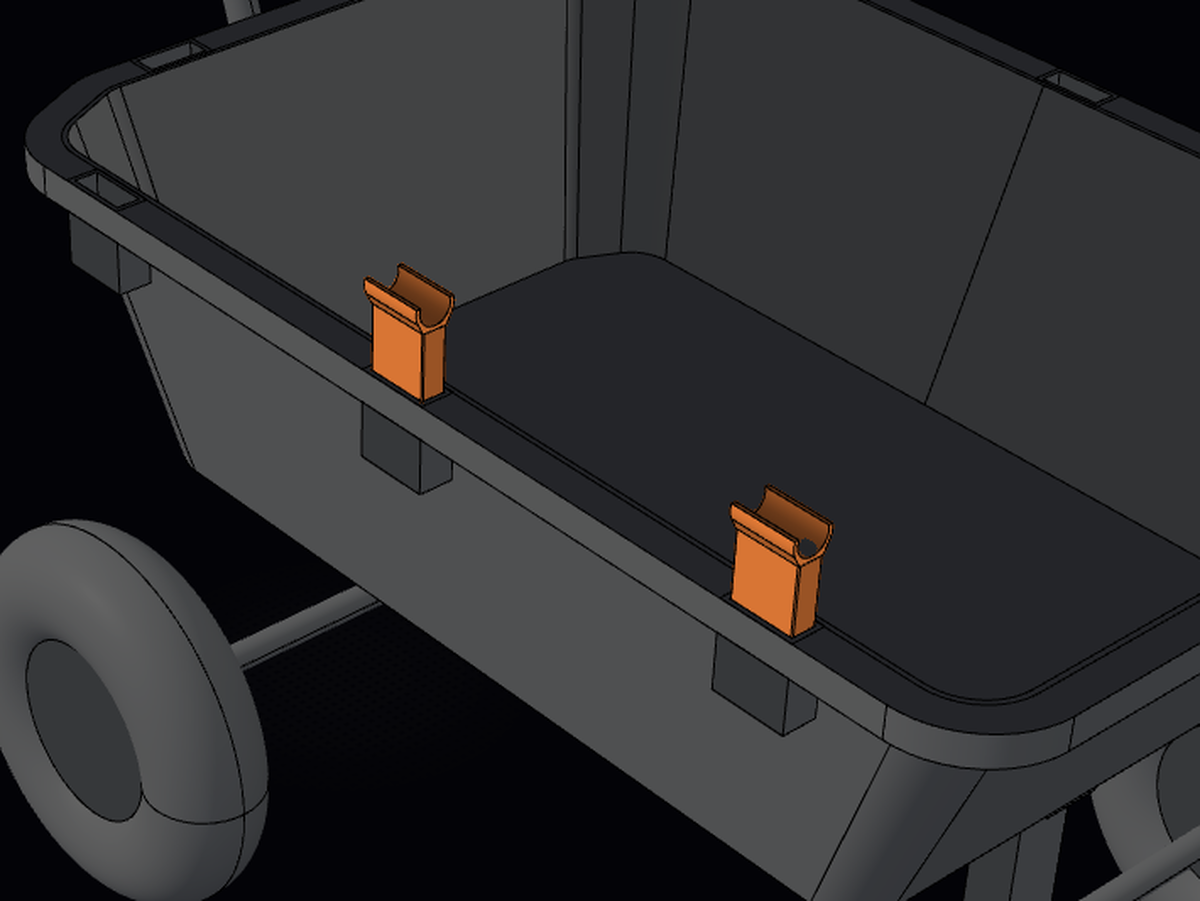
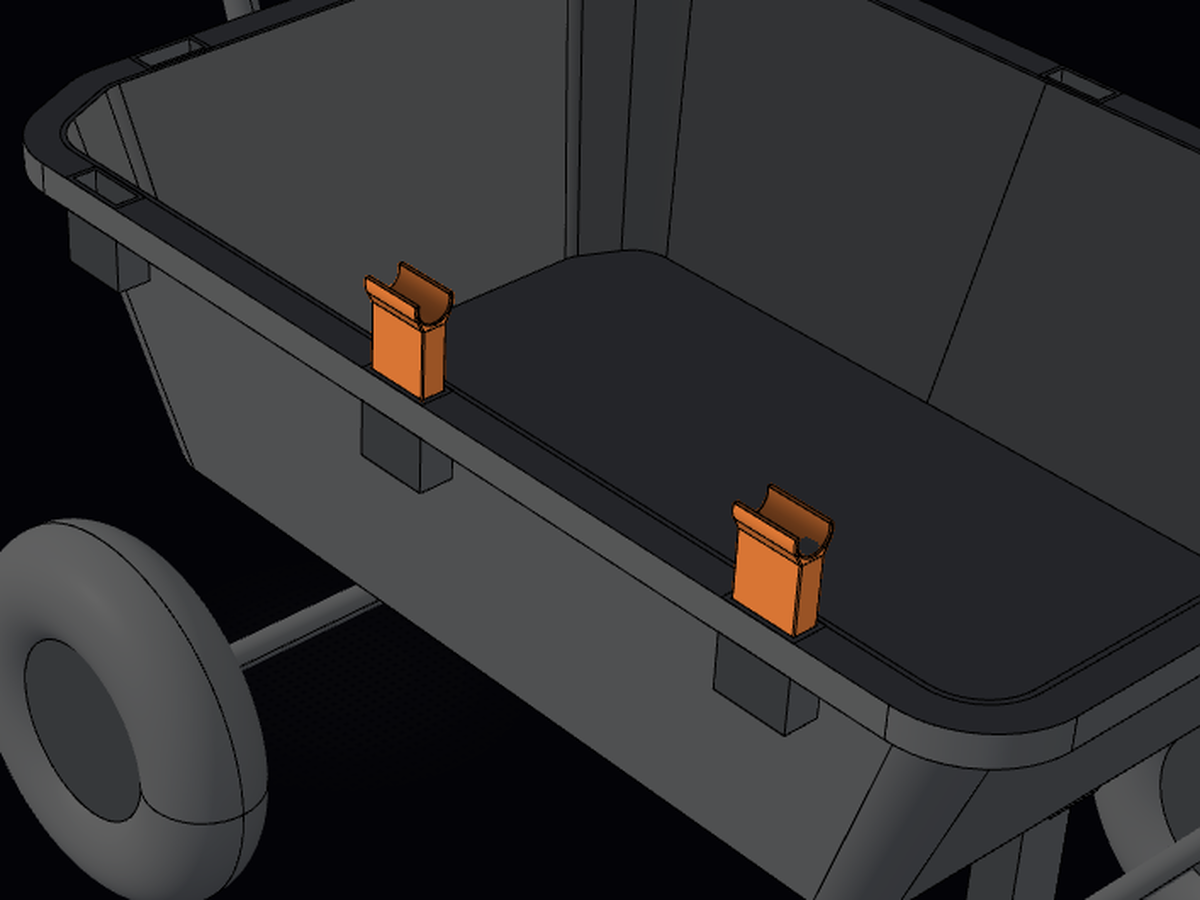
Add chamfer to pole holder edges

diff --git a/src/pole-holder.brep.ts b/src/pole-holder.brep.ts
@@ -11,7 +11,18 @@
  * Units and axes as in ./key.ts: Z up from the cutout floor at z = 0, centred
  * in X/Y, X across the rim, Y along it. The rim is at z = insertDepth.
  */
-import { cut, cylinder, draw, fuse, unwrap, type ValidSolid } from 'brepjs';
+import {
+  chamfer,
+  curvePointAt,
+  cut,
+  cylinder,
+  draw,
+  edgeFinder,
+  fuse,
+  unwrap,
+  type Edge,
+  type ValidSolid,
+} from 'brepjs';
 
 import { cart, plug } from './cart.js';
 import { key, keySectionArea } from './key.js';
@@ -39,6 +50,13 @@ export const params = {
    * leaves the opening narrower than the bore, which is what retains the pole.
    */
   lipHeight: 4,
+
+  /**
+   * Breaks every edge of the clip's two end faces, outer profile and bore mouth
+   * alike, so the pole and hands meet no sharp edge. The base of the clip, where
+   * it meets the bar, is left square.
+   */
+  edgeChamfer: 1,
 } as const;
 
 // ---------------------------------------------------------------------------
@@ -104,14 +122,33 @@ export default function poleHolder(): ValidSolid {
 
   // The XZ plane's normal is -Y, so start the sketch at +Y and extrude back
   // across the full length.
-  const clip = single(profile.sketchOnPlane('XZ', [0, plug.y / 2, 0]).extrude(plug.y));
+  let clip = single(profile.sketchOnPlane('XZ', [0, plug.y / 2, 0]).extrude(plug.y));
 
   const bore = cylinder(boreR, plug.y + 2 * OVER, {
     at: [0, -plug.y / 2 - OVER, height + centreZ],
     axis: [0, 1, 0],
   });
 
-  return single(unwrap(cut(single(unwrap(fuse(bar, clip))), bore)));
+  // The end-face chamfer goes on in two steps, because OCCT fails to chamfer
+  // the outer profile once the clip is joined to the bar. First the outer
+  // profile on the clip alone: every edge of both end faces except the base,
+  // which is joined to the bar.
+  const onEnd = (edge: Edge) => Math.abs(Math.abs(curvePointAt(edge, 0.5)[1]) - plug.y / 2) < 1e-6;
+  const c = params.edgeChamfer;
+  if (c > 0) {
+    const onProfile = (edge: Edge) => onEnd(edge) && curvePointAt(edge, 0.5)[2] > height + 1e-6;
+    clip = single(unwrap(chamfer(clip, edgeFinder().when(onProfile), c)));
+  }
+
+  const part = single(unwrap(cut(single(unwrap(fuse(bar, clip))), bore)));
+  if (c <= 0) return part;
+
+  // Then the bore mouths, once the bore is cut.
+  const onBoreMouth = (edge: Edge) => {
+    const [x, , z] = curvePointAt(edge, 0.5);
+    return onEnd(edge) && Math.abs(Math.hypot(x, z - height - centreZ) - boreR) < 1e-6;
+  };
+  return single(unwrap(chamfer(part, edgeFinder().when(onBoreMouth), c)));
 }
 
 // ---------------------------------------------------------------------------
@@ -130,8 +167,23 @@ const clipArea =
   2 * (outerR * halfBase - outerR ** 2 * beta) -
   belowChord(boreR, params.lipHeight);
 
+// The end-face chamfer takes a c²/2 triangle along each edge of both end
+// profiles: straight along the side lines and lips, and swept round the arcs
+// (Pappus), its centroid c/3 in from the outer circle and c/3 out from the
+// bore. The mitres where the arcs meet the lips are left to the tolerance.
+const c = params.edgeChamfer;
+const sideLine = Math.hypot(tangent[0] - halfBase, tangent[1]);
+const outerArc = Math.atan2(params.lipHeight, outerAtCut) - (toCorner + beta);
+const boreArc = Math.PI + 2 * Math.asin(params.lipHeight / boreR);
+const chamferPerEnd =
+  (c ** 2 / 2) *
+  (2 * sideLine +
+    2 * lipWidth +
+    2 * outerArc * (outerR - c / 3) +
+    boreArc * (boreR + c / 3));
+
 export const expected = {
-  volume: keySectionArea * height + clipArea * plug.y,
+  volume: keySectionArea * height + clipArea * plug.y - 2 * chamferPerEnd,
   bounds: {
     xMin: -outerR,
     xMax: outerR,

diff --git a/docs/pole-holder.md b/docs/pole-holder.md
@@ -33,6 +33,7 @@ Fit two holders in neighbouring cutouts on the same side, 330.7 mm apart, with t
 | Bore | 25.6 mm (25.3 + 0.3) along Y, centre 15.8 mm above the bar top (z = 129.3) |
 | Wall | 3 mm around the bore and under it |
 | Opening | 24.32 mm, 1.28 mm narrower than the bore; 3.13 mm flat lip either side |
+| Edges | 1 mm chamfer round the clip's outer profile and the bore mouth, on both end faces; the clip's base is left square where it meets the bar |
 | Overall | 31.6 (X) × 51.0 (Y) × 133.3 (Z) mm; top 69.8 mm above the rim |
 
 ## Design notes
